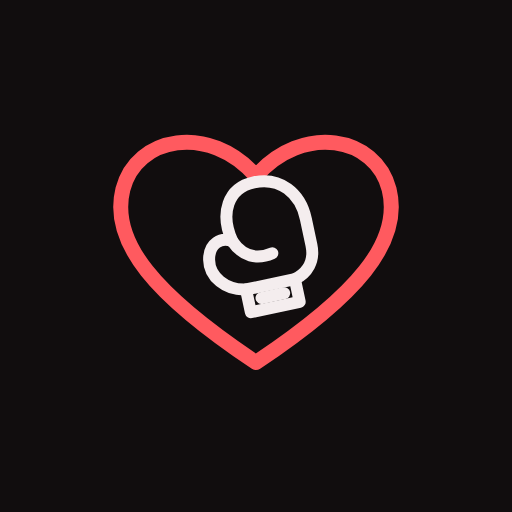
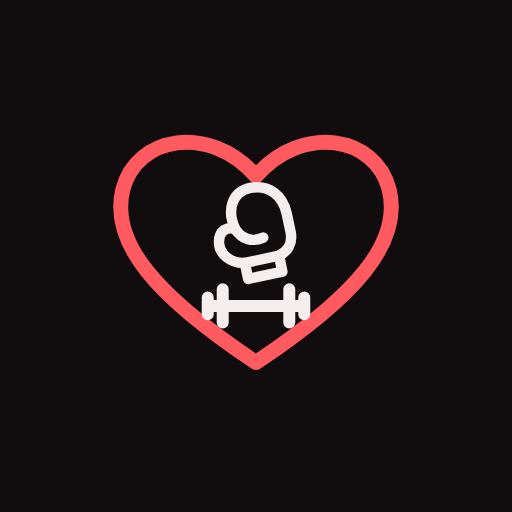
Ícone: halter e luva de boxe dentro do coração
Claude-Session: https://claude.ai/code/session_01WTJ7pW5ukfkLtfk6ZwxXYC

Changed region(s): [[0.375, 0.3438, 0.625, 0.6562]]

diff --git a/sw.js b/sw.js
@@ -1,4 +1,4 @@
-const CACHE='treino-v3';
+const CACHE='treino-v4';
 const ASSETS=['./','index.html','manifest.webmanifest','icon-192.png','icon-512.png','apple-touch-icon.png'];
 self.addEventListener('install',e=>{e.waitUntil(caches.open(CACHE).then(c=>c.addAll(ASSETS)));self.skipWaiting()});
 self.addEventListener('activate',e=>{e.waitUntil(caches.keys().then(ks=>Promise.all(ks.filter(k=>k!==CACHE).map(k=>caches.delete(k)))));self.clients.claim()});
